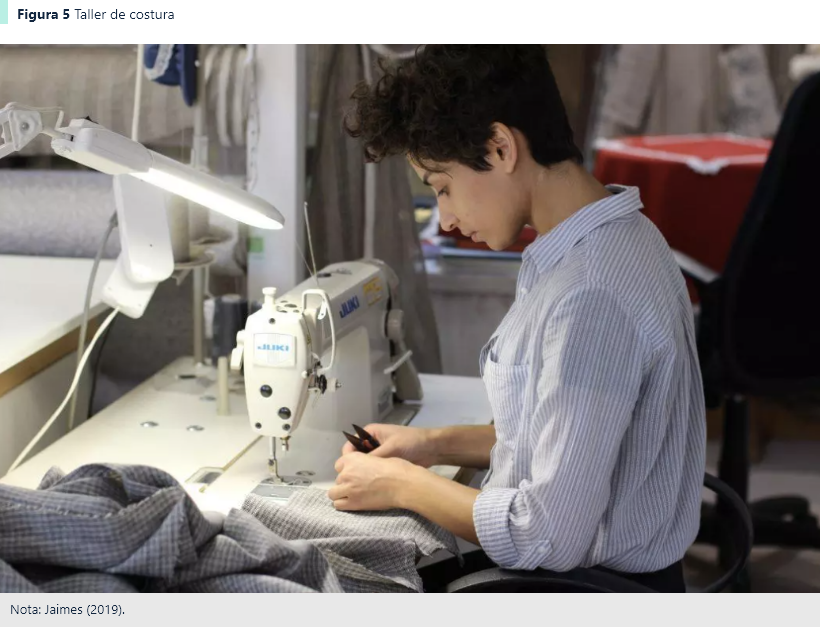
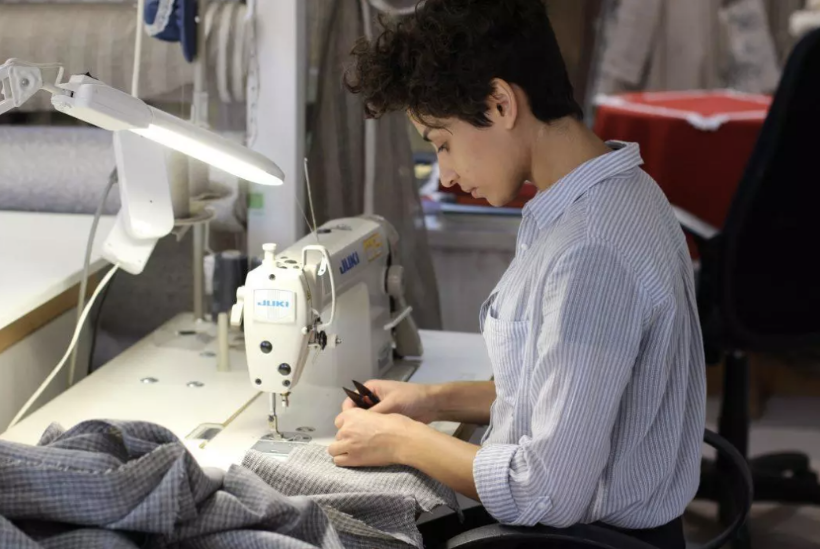
avance

diff --git a/src/views/Tema1.vue b/src/views/Tema1.vue
@@ -9,19 +9,31 @@
       h1 Contextualización del modisto y el sastre
     
     //-primera caja
-    .row.align-items-center.mb-5
+    .row 
       .col-1
-      .col-10
-        .row.mb-5
-          .col.d-flex.p-4(style='background-color: #E8E8E8')
-            img(src='@/assets/curso/tema1/modisto-viejo.png', alt='Modisto con máquina de coser de la époco antigua')
-          .col.d-flex.p-4(style='background-color: #73D8C0')
-            .p-4.align-middle(style='background-color: white')
-              br
-              br
-              br
-              br
-              p Cuando se hace referencia al oficio de la costura y a quienes participan directamente en ella es necesario y casi que imposible no remontarse a la ideación de pasarelas, modelos, trajes de fiesta u ocasiones especiales, por ello es que en la historia de este oficio es importante mencionar que la palabra modisto empieza a popularizarse con uno de los primeros modistos, Charles Frederick Worth, no sin mencionar que mucho antes de su aparición, este oficio siempre ha estado a cargo de las manos de mujeres consideradas artesanas, quienes a través de telares muy rústicos construían los textiles y generaban todo tipo de acabados para adornar y embellecer las prendas.
+      .col-5.d-flex.p-4(style='background-color: #E8E8E8')
+      .col-4.d-flex.p-4(style='background-color: #73D8C0')
+      .col-1.d-flex.p-4(style='background-color: #73D8C0')
+    .row
+      .col-1
+      .col-3.d-flex.p-4(style='background-color: #E8E8E8')
+        img(src='@/assets/curso/tema1/modisto-viejo.png', alt='Modisto con máquina de coser de la époco antigua')
+      .col-6.d-flex.p-4(style)
+        p-4.align-middle(style='background-color: white')
+          p.mb-5.mt-5 Cuando se hace referencia al oficio de la costura y a quienes participan directamente en ella es necesario y casi que imposible no remontarse a la ideación de pasarelas, modelos, trajes de fiesta u ocasiones especiales, por ello es que en la historia de este oficio es importante mencionar que la palabra modisto empieza a popularizarse con uno de los primeros modistos, Charles Frederick Worth, no sin mencionar que mucho antes de su aparición, este oficio siempre ha estado a cargo de las manos de mujeres consideradas artesanas, quienes a través de telares muy rústicos construían los textiles y generaban todo tipo de acabados para adornar y embellecer las prendas.
+      .col-1(style='background-color: #73D8C0')
+    .row  
+      .col-1
+      .col-5.d-flex.p-4(style='background-color: #E8E8E8')
+      .col-5.d-flex.p-4(style='background-color: #73D8C0')
+        
+    //- icono visible
+    .row
+      .col-5
+      .col-1
+        br
+        img(src='@/assets/curso/tema1/metro.png', alt='Metro')
+      .col-5
 
     //-segunda caja
     .row
@@ -55,22 +67,29 @@
               .col-2
               .col-10
                 p.mb-0(style='font-size: 14px') Charles Frederick Worth es considerado el padre de la alta costura, fue un visionario para la época, desarrolló los primeros desfiles de moda, incorporó la etiqueta y marquilla a los trajes, fundó la cámara sindical de alta costura e incursionó en el modelo de venta de trajes en almacenes al público. En la siguiente figura se aprecia el Atelier de Worth.
-      .row
-        .col-6(style='background-color: #E8E8E8')
-          p.mb-0(style='font-size: 13px') Nota. Trajes Delwende (2021).
-      .row
-        .col-2
-        .col-8
-          br
-          p.mb-0(style='font-size: 13px') <strong> Figura 2. </strong>  ¿Qué es un atelier?
-          img(scr='@/assets/curso/tema1/salon.png', alt='La imagen muestra un atelier de principios del siglo XX o finales del XIX. Varias mujeres como costureras, están trabajando en prendas de vestir sobre maniquíes, todas concentradas en sus tareas, que incluyen ajustar y posiblemente adornar los tejidos. La vestimenta de las trabajadoras sugiere una época pasada, con blusas de manga larga y faldas hasta el tobillo. El ambiente es de trabajo artesanal con herramientas y telas esparcidas por la habitación. Un atelier es un taller o estudio, especialmente uno utilizado por un artista o diseñador. En el contexto de la moda, es el lugar donde un diseñador o sastre crea sus prendas de vestir, a menudo de forma artesanal y personalizada.')
-      .row 
-        .col-2
-        .col-8(style='background-color: #E8E8E8')
-          p.mb-0(style='font-size: 13px') Nota. Escribano (2019).
-      .row.align-items-center.mb-5
+    .row
+      .col-6(style='background-color: #E8E8E8')
+        p.mb-0(style='font-size: 13px') Nota. Trajes Delwende (2021).
+    
+    
+    //-salon de confeccion
+    .row
+      .col-2
+      .col-8
         br
-        img(scr='@/assets/curso/tema1/tijerasok.svg', alt='División de tijeras')
+        p.mb-0(style='font-size: 13px') <strong> Figura 2. </strong>  ¿Qué es un atelier?
+        img(scr='@/assets/curso/tema1/salon.png', alt='La imagen muestra un atelier de principios del siglo XX o finales del XIX. Varias mujeres como costureras, están trabajando en prendas de vestir sobre maniquíes, todas concentradas en sus tareas, que incluyen ajustar y posiblemente adornar los tejidos. La vestimenta de las trabajadoras sugiere una época pasada, con blusas de manga larga y faldas hasta el tobillo. El ambiente es de trabajo artesanal con herramientas y telas esparcidas por la habitación. Un atelier es un taller o estudio, especialmente uno utilizado por un artista o diseñador. En el contexto de la moda, es el lugar donde un diseñador o sastre crea sus prendas de vestir, a menudo de forma artesanal y personalizada.')
+    .row 
+      .col-2
+      .col-8(style='background-color: #E8E8E8')
+        p.mb-0(style='font-size: 13px') Nota. Escribano (2019).
+    
+    
+    //-division tijeras
+    .row
+      .col-12
+        br
+        img(scr='@/assets/curso/tema1/tijeras.png', alt='División de tijeras')
         br
 
     

diff --git a/src/views/Tema2.vue b/src/views/Tema2.vue
@@ -26,31 +26,31 @@
       .col-7
         ul.lista-ul--color
           li
-            i.far.fa-dot-circle
+            i.far.fa-dot-circle(style='color: #F5947A')
             | Elaboración de prendas de vestir para hombre y mujer.
           li
-            i.far.fa-dot-circle
+            i.far.fa-dot-circle(style='color: #F5947A')
             | Realización de patronaje sobre pedido en trajes a la medida.
           li
-            i.far.fa-dot-circle
+            i.far.fa-dot-circle(style='color: #F5947A')
             | Corte de los patrones en material textil.
           li
-            i.far.fa-dot-circle
+            i.far.fa-dot-circle(style='color: #F5947A')
             | Modificación de prendas de vestir.
           li
-            i.far.fa-dot-circle
+            i.far.fa-dot-circle(style='color: #F5947A')
             | Ajustar, reparar y coser prendas de vestir.
           li
-            i.far.fa-dot-circle
+            i.far.fa-dot-circle(style='color: #F5947A')
             | Preparar los recursos necesarios para la confección y elaboración de prendas.
           li
-            i.far.fa-dot-circle
+            i.far.fa-dot-circle(style='color: #F5947A')
             | Garantizar la calidad y el cumplimiento en la entrega de prendas.
           li
-            i.far.fa-dot-circle
+            i.far.fa-dot-circle(style='color: #F5947A')
             | Leer a su cliente para identificar necesidades y oportunidades de optimización en la elaboración de prendas que beneficien a su consumidor.
           li
-            i.far.fa-dot-circle
+            i.far.fa-dot-circle(style='color: #F5947A')
             | Actualización constante en su oficio, nuevas metodologías y experimentación en patronaje frente a construcción y arquitectura de prendas.
 
     .h2.mb-4 Talleres de modistería y finalidades
@@ -58,7 +58,12 @@
     .row.mb-4
       .col-1
       .col-10
-        img(src='@/assets/curso/tema2/taller.png', alt='La imagen muestra a una persona concentrada en la costura, utilizando una máquina de coser. Una lámpara de trabajo ilumina el área de costura para proporcionar una mejor visibilidad. El entorno parece ser un taller o espacio de trabajo de costura con varios objetos y materiales de costura en el fondo. La escena captura la dedicación y el enfoque que requiere la costura, destacando un momento de la artesanía textil.')
+        .row
+          p.mb-0(style='font-size: 13px') <strong> Figura 5. </strong> Taller de costura
+        .row
+          img(src='@/assets/curso/tema2/taller.png', alt='La imagen muestra a una persona concentrada en la costura, utilizando una máquina de coser. Una lámpara de trabajo ilumina el área de costura para proporcionar una mejor visibilidad. El entorno parece ser un taller o espacio de trabajo de costura con varios objetos y materiales de costura en el fondo. La escena captura la dedicación y el enfoque que requiere la costura, destacando un momento de la artesanía textil.')
+        .row(style='background-color: #E8E8E8')
+          p.mb-0(style='font-size: 13px') Nota: Jaimes (2019).
     p.mb-5 Es por ello que para todo aquel que quiera iniciarse en esta profesión debe tener en cuenta el mínimo de elementos que contiene la labor, por ejemplo, un espacio amplio, mesa de corte, máquina plana, fileteadora, insumos para corte y confección, además de insumos para la elaboración del patronaje. Por tanto, es importante tener en cuenta que estos espacios y la persona que los lidera debe cumplir con ciertos fines que requiere esta labor:
 
     figure.mb-5
